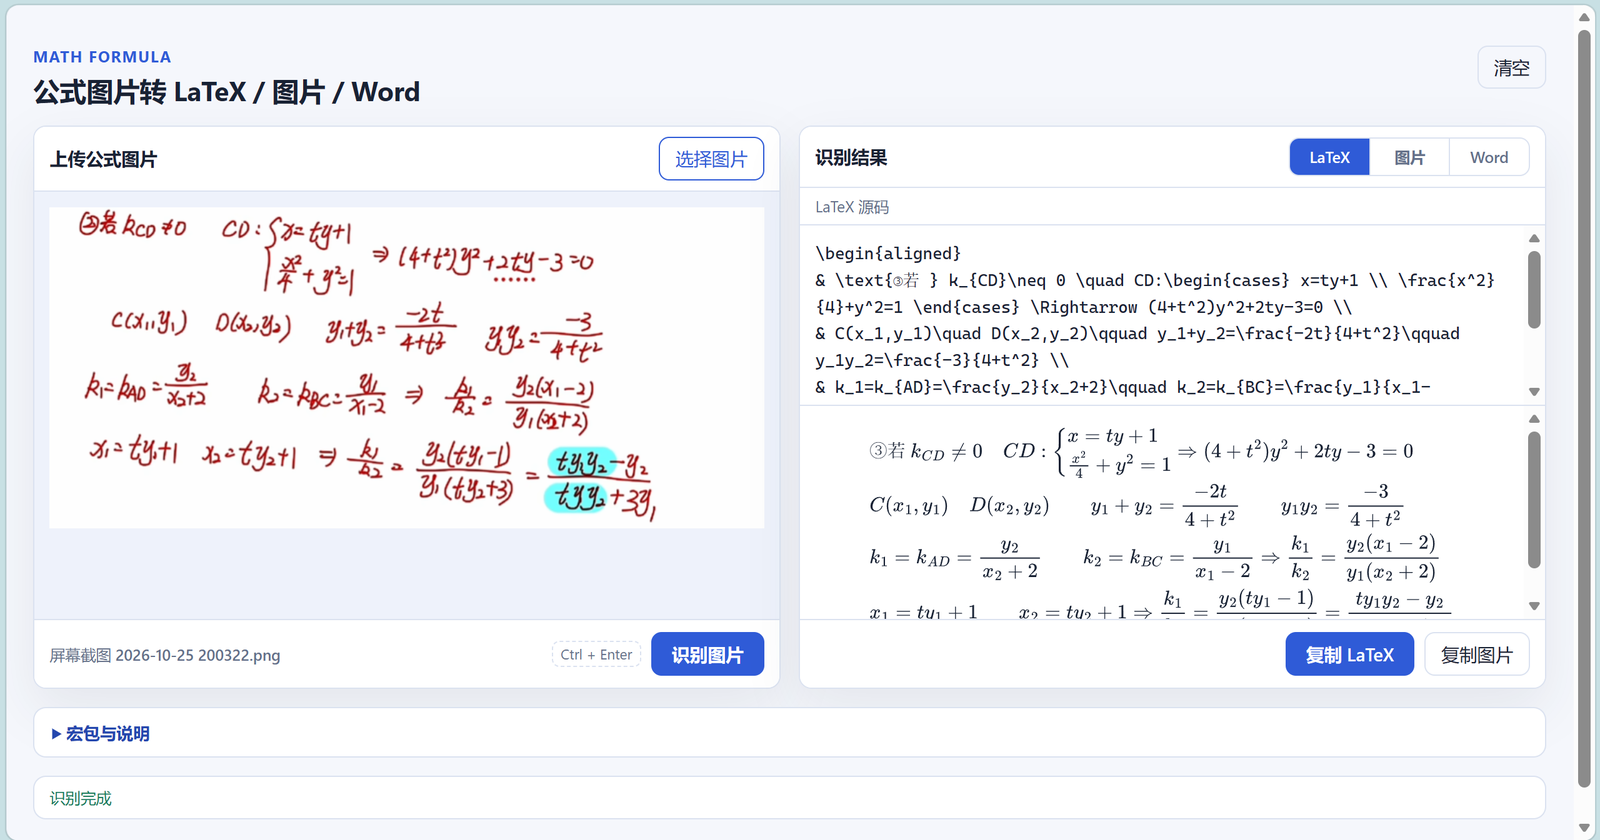
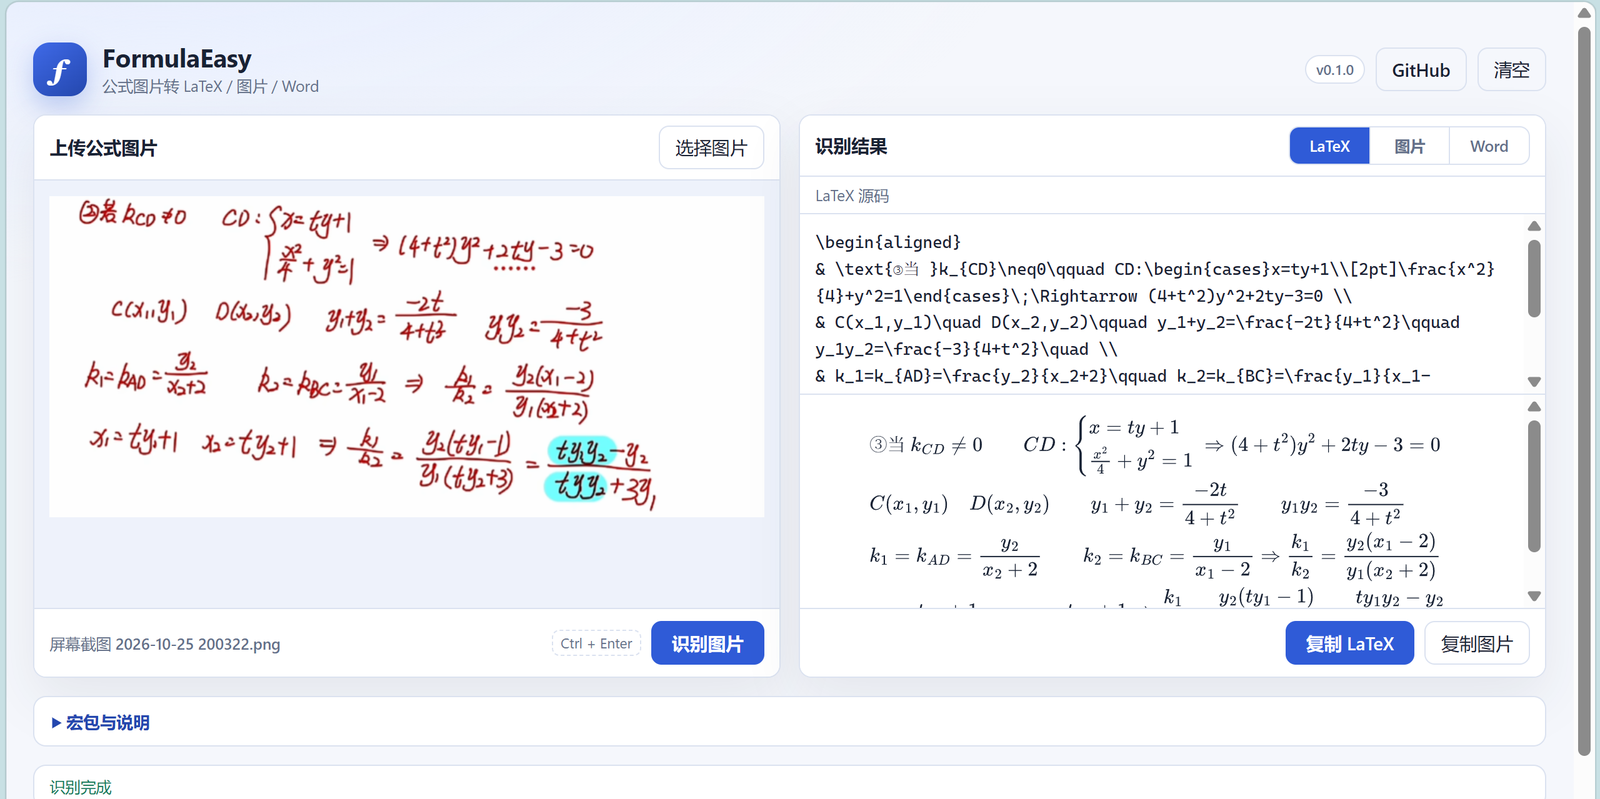
docs: 更新首屏截图，来源改为 blueRita 原仓库
- overview.png 换成品牌化后的界面截图
- README 两版的来源链接指向 blueRita 的原始仓库，不再指 fork
- package.json 版本对齐界面上的 v0.1.0

diff --git a/README.md b/README.md
@@ -97,9 +97,8 @@ contains `&` without any alignment environment is wrapped in `aligned`.
 Released under the ISC license, see [LICENSE](LICENSE).
 
 This project is based on
-[hitszHugh/Math-Formula-Picture-to-LaTex-or-Word-Default-Format-Web](https://github.com/hitszHugh/Math-Formula-Picture-to-LaTex-or-Word-Default-Format-Web),
-whose history starts from blueRita's original implementation. Copyright in the
-original work remains with its author.
+[blueRita/Math-Formula-Picture-to-LaTex-or-Word-Default-Format-Web](https://github.com/blueRita/Math-Formula-Picture-to-LaTex-or-Word-Default-Format-Web).
+Copyright in the original work remains with its author.
 
 Changes made in this fork:
 
